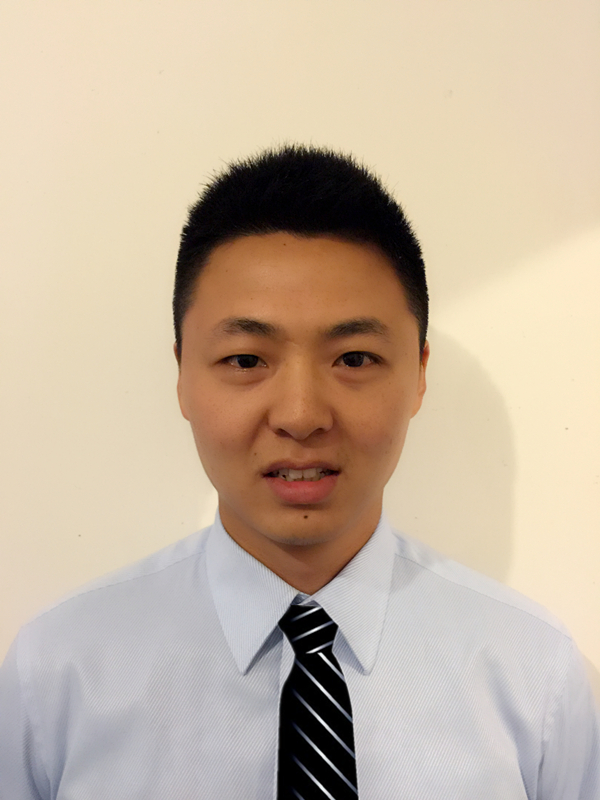
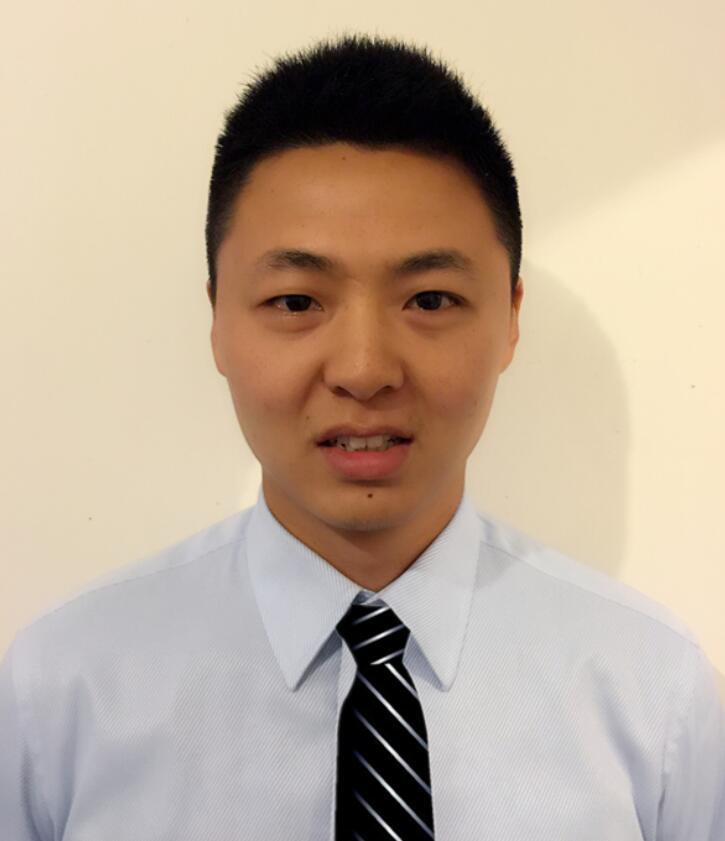
修改html、照片

diff --git a/index.html b/index.html
@@ -3,7 +3,7 @@
 <head>
     <meta charset="utf-8" />
     <meta name="viewport" content="width=device-width, initial-scale=1.0, minimum-scale=1.0, maximum-scale=1.0, user-scalable=no" />
-    <title>王小波 | 黄金时代</title>
+    <title>杭宗国 | 个人简历</title>
     <link rel="stylesheet" href="style.css" />
 </head>
 <body class="nojs">
@@ -11,12 +11,12 @@
         <section id="information">
             <h2>基本信息</h2>
             <img src="photo.jpg" alt="王小波" />
-            <p><span>姓名：</span>王小波</p>
+            <p><span>姓名：</span>杭宗国</p>
             <p><span>性别：</span>男</p>
-            <p><span>出生年月：</span>1952年5月</p>
+            <p><span>出生年月：</span>1989年10月</p>
             <p><span>移动电话：</span>13800138000</p>
-            <p><span>电子邮件：</span><a class="print" href="mailto:nobody@example.com">nobody@example.com</a></p>
-            <p><span>个人网站：</span><a class="print" href="http://example.com/">http://example.com/</a></p>
+            <p><span>电子邮件：</span><a class="print" href="mailto:hangzongguo@163.com">hangzongguo@163.com</a></p>
+            <p><span>个人网站：</span><a class="print" href="http://hardy-hang.sae.com/">http://hardy-hang.sae.com/</a></p>
         </section>
         <section id="evaluation">
             <h2>自我评价</h2>
